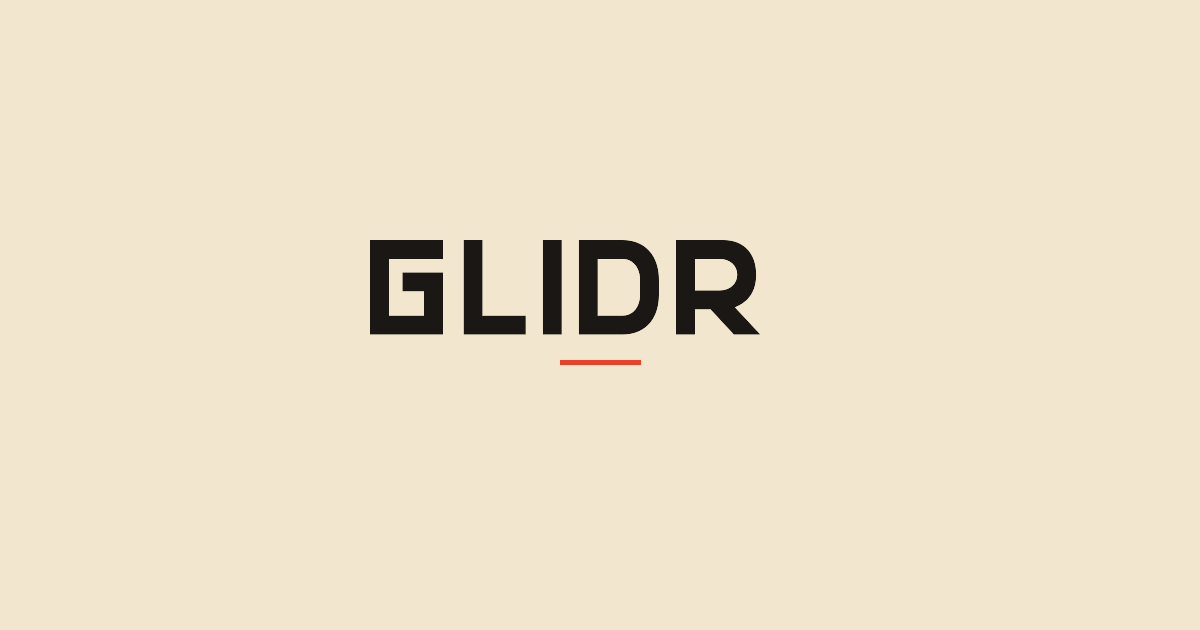
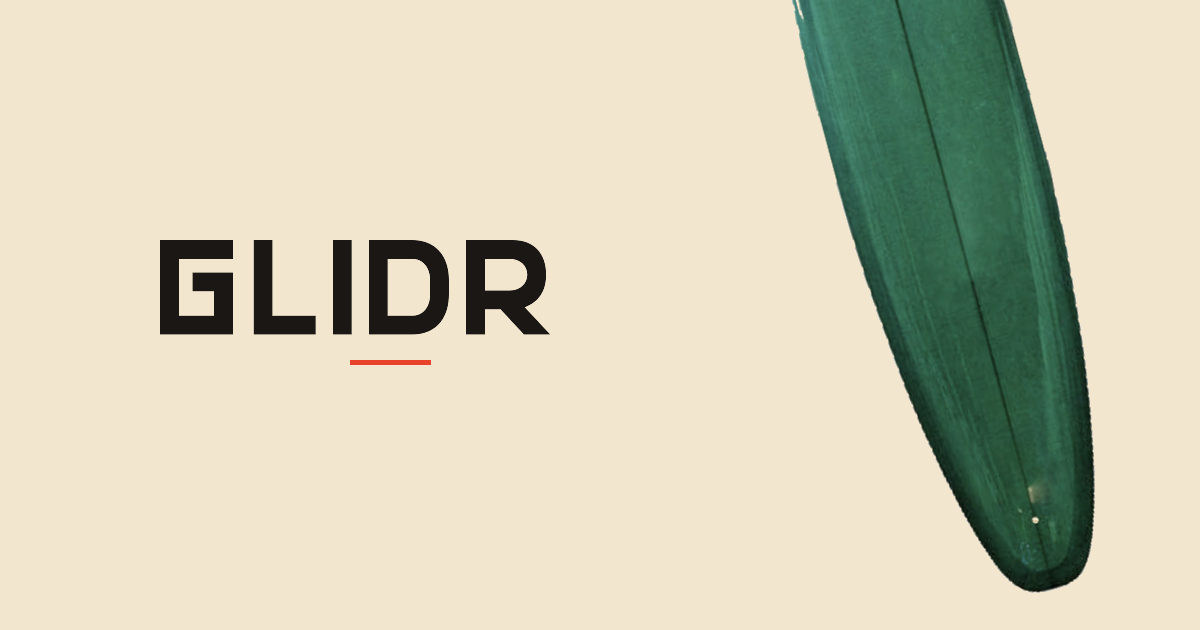
feat: improved OG image with board nose, taller board thumbnails
Flat Tracker nose composited onto sand background for social preview.
Board row images now 72px wide at 90px height with mix-blend-multiply.

diff --git a/apps/web/src/components/BoardRow.tsx b/apps/web/src/components/BoardRow.tsx
@@ -12,12 +12,14 @@ function SurferRating({ rating }: { rating: number }) {
 
 export default function BoardRow({ board }: { board: Board }) {
   return (
-    <div className="grid grid-cols-[56px_52px_1fr] gap-lg py-lg border-b border-border-soft items-start">
-      <img
-        src={board.image}
-        alt={board.name}
-        className="w-[56px] h-[56px] object-cover object-top border border-border"
-      />
+    <div className="grid grid-cols-[72px_52px_1fr] gap-lg py-lg border-b border-border-soft items-start">
+      <div className="w-[72px] h-[90px] overflow-hidden rounded-sm bg-[#E8DCC4] border border-border-soft">
+        <img
+          src={board.image}
+          alt={board.name}
+          className="w-full h-full object-cover object-top mix-blend-multiply"
+        />
+      </div>
       <div>
         <div className={`font-display text-rating ${boardTypeColor[board.type]}`}>
           {board.rating.toFixed(1)}
